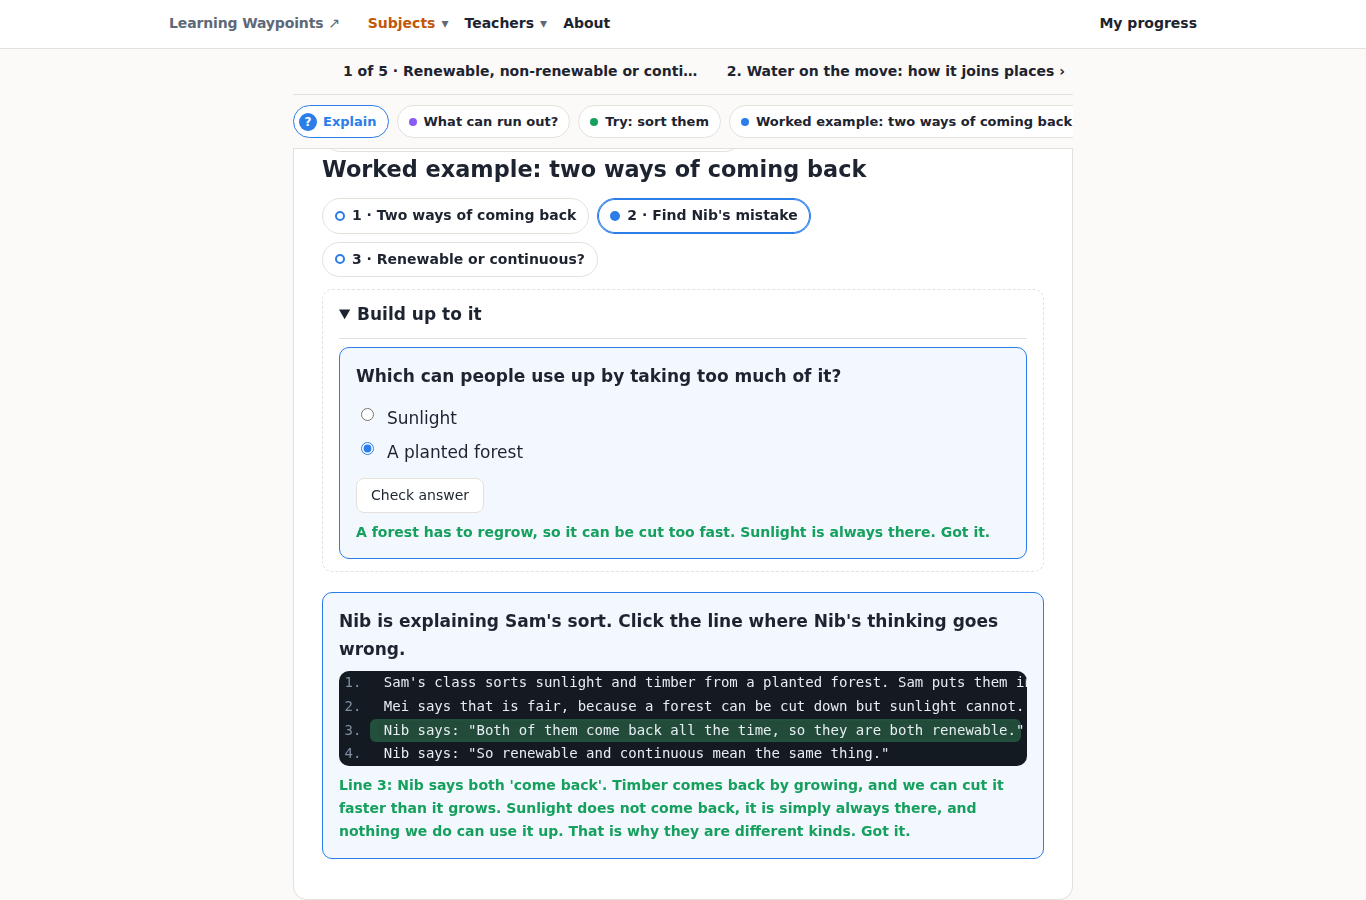
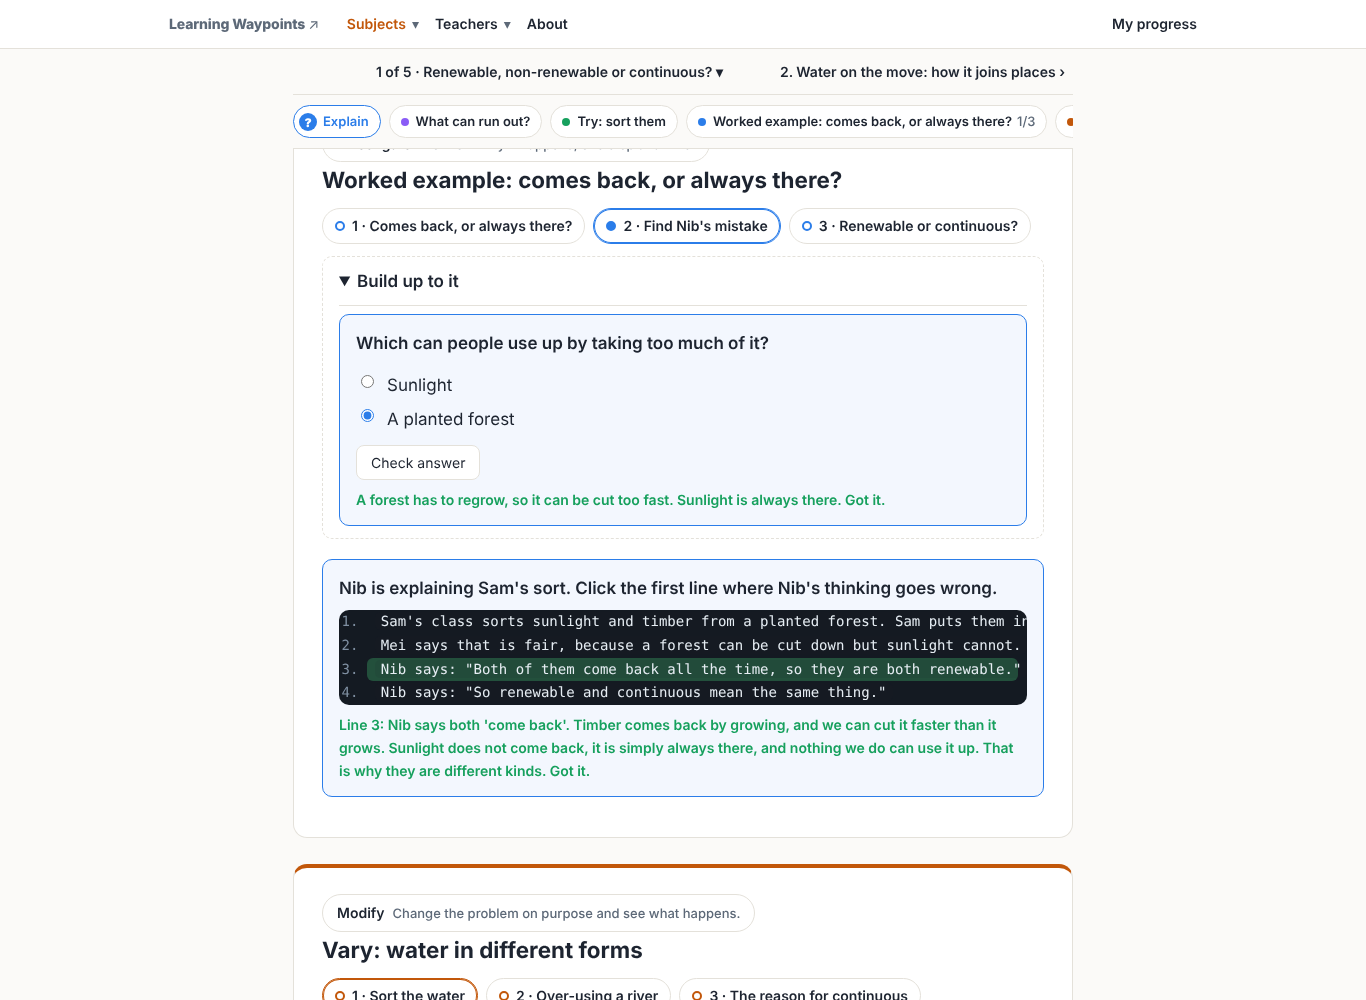
Quick reference: three core ideas up front, two small crops
'Three ideas you'll see everywhere' (waypoint, hinge, width: broader not
further ahead) with an ACARA Progressions crop of a hinge and width
opportunity; tool sections now refer to them. Tutorials gets a crop of
the Width switch and Build up to it. Slide 3's screenshot retaken with
the new worked-example heading. Reference images float beside the text
when printed; still two A4 sides.

Claude-Session: https://claude.ai/code/session_01LZe4qpVDvHoFiMfpVGiXoS

Changed region(s): [[0.2152, 0.0622, 0.7994, 1.0], [0.123, 0.0, 0.4612, 0.0622], [0.7994, 0.0, 0.8917, 0.0311]]

diff --git a/content/teachers/getting-started/reference.md b/content/teachers/getting-started/reference.md
@@ -3,6 +3,14 @@ title: "Learning Waypoints: teacher quick reference"
 ---
 ACARA sets the destination for student learning. **Learning Waypoints maps the steps to get there**, in the order they're best learned. Use whichever part helps you; there is no required sequence.
 
+## Three ideas you'll see everywhere
+
+![In ACARA Progressions: a waypoint with its hinge and width opportunity](../../../teach/teachers/getting-started/presentation-assets/hinge-width-crop.png)
+
+- **Waypoint:** an idea students need to understand to meet a content description. Waypoints are listed in the order they're best learned.
+- **⚑ Hinge:** a waypoint students need before moving on, often where they get stuck. Check it before you go further.
+- **Width:** classes ready for more go **broader, not further ahead**: more examples and contexts of the same idea. **Minimum** covers the main understanding; **Typical** and **Wider** add more.
+
 ## Three ways in
 
 | Way in | Helps you… | Start here |
@@ -15,12 +23,10 @@ Each page lists more tools; start with the one named here.
 
 ## Curriculum: ACARA Progressions
 
-Choose your subject and year. Each content description is a row of **waypoints**: the ideas students need to understand to meet it, in order.
+Choose your subject and year. Each content description is a row of waypoints.
 
 - The content description's panel shows **Prior Knowledge** (what students need first) and the **Progression Endpoint**.
-- Click a waypoint for its **Checkpoint**: what students should be able to show at that step.
-- **⚑ Hinge:** a step students need before moving on; the panel says why. Worth checking before you go further.
-- **★ Width opportunity:** a good place for more examples of the same idea (Minimum, Typical, Wider).
+- Click a waypoint for its **Checkpoint** (what students should be able to show), plus **⚑ Hinge** and **★ Width opportunity** where marked.
 
 The waypoints draw on ACARA content descriptions; their sequence and teaching suggestions reflect professional judgement, not ACARA's.
 
@@ -33,11 +39,14 @@ The waypoints draw on ACARA content descriptions; their sequence and teaching su
 
 ## Lessons: Tutorials
 
+![In a tutorial: the Width switch and a Build up to it question](../../../teach/teachers/getting-started/presentation-assets/width-smaller-crop.png)
+
 Short interactive lessons, each on one waypoint. When a student answers a check:
 
 - **Feedback:** read the explanation for their choice, then ask how they chose it.
 - **Build up to it:** a smaller question on the same idea, then back to the original task.
-- **Minimum** covers the main understanding. **Typical** and **Wider** add more examples of the same idea; you choose who would benefit and how long to spend.
+- **Width** switch: Minimum, Typical or Wider. You choose who would benefit and how long to spend.
+- **Hinge** lessons check the idea before moving on; their teacher notes say so.
 
 You still guide discussion and inquiry, select sources and assess extended reasoning. A check is one piece of evidence.
 
